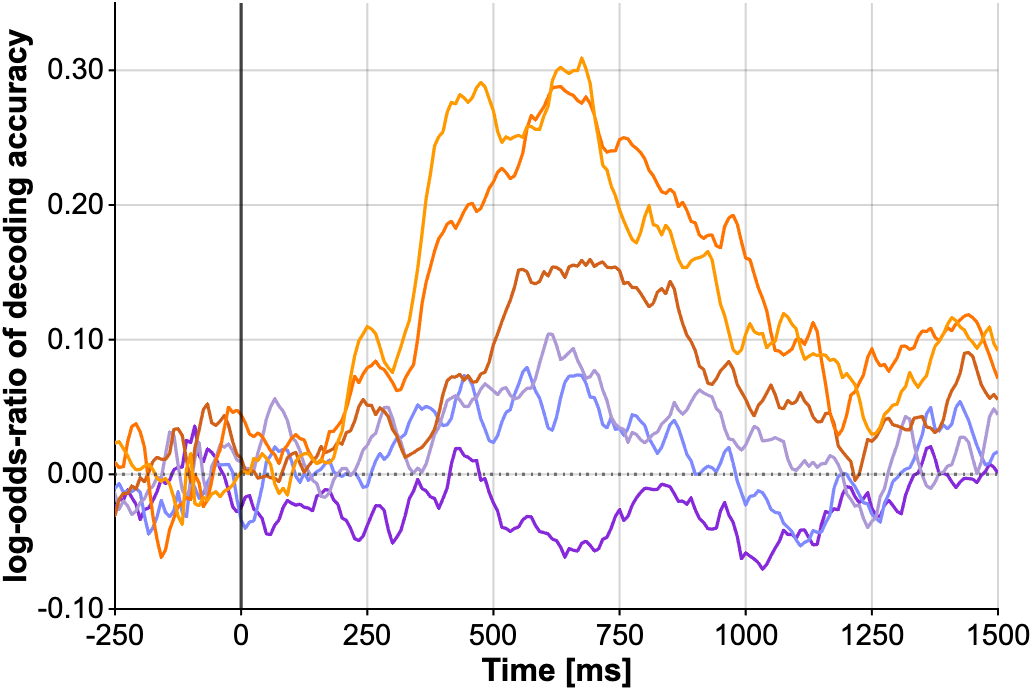
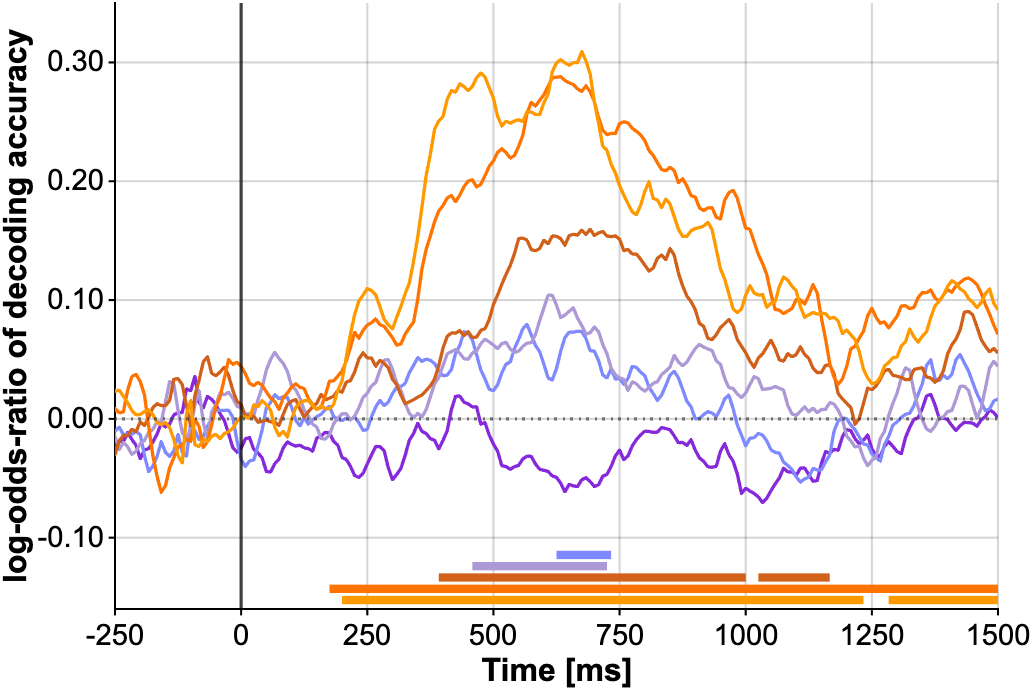
Add decoding-ratio statistics and a Figure 5e significance bar
- Update meg_decoding_accuracies.mat: rename the stats field to acc_statsAcc
  and add acc_statsLOR (log-odds-ratio cluster statistics); all other fields
  are unchanged
- Reference acc_statsAcc in fig5 and the shared decoding-panel helper
- Draw cluster-based significance bars on the Figure 5e log-odds-ratio panel
  using acc_statsLOR
- Document the new stats fields in the README

diff --git a/fig5_decoding_acc.m b/fig5_decoding_acc.m
@@ -79,7 +79,7 @@ for iCond = 1:numel(conditions)
     end
 end
 
-ratio = localBuildRatioTimecourses(tc);
+ratio = localBuildRatioTimecourses(tc, dec, expIdx, timeSec);
 
 %% ------------------------- PLOT -----------------------------------------
 
@@ -125,12 +125,12 @@ function subjByTime = localConditionAccuracy(acc, accDims, dimLevs, timeDim, ref
     end
 end
 
-function ratio = localBuildRatioTimecourses(tc)
+function ratio = localBuildRatioTimecourses(tc, dec, expIdx, timeSec)
     names = ["purple", "orange"];
     cols = struct();
     cols.purple = [0.52 0.16 0.86; 0.50 0.54 1.00; 0.68 0.60 0.84];
     cols.orange = [0.82 0.38 0.10; 1.00 0.45 0.00; 1.00 0.60 0.00];
-    ratio = struct('label', {}, 'y', {}, 'color', {});
+    ratio = struct('label', {}, 'y', {}, 'color', {}, 'sig', {});
     for iRef = 1:numel(names)
         ref = names(iRef);
         hue = tc.(char(ref + "_hue")).subjByTime ./ 100;
@@ -141,20 +141,65 @@ function ratio = localBuildRatioTimecourses(tc)
             ratio(end+1).label = sprintf('%s step %d', ref, iStep); %#ok<AGROW>
             ratio(end).y = y(:, iStep);
             ratio(end).color = cols.(char(ref))(iStep, :);
+            % Significant time points (p < 0.05) of the log-odds-ratio, from the
+            % cluster-based permutation test stored in dec.acc_statsLOR.
+            ratio(end).sig = localSignificantMaskLOR(dec, expIdx, ref, iStep, timeSec);
         end
     end
 end
 
-function mask = localSignificantMask(dec, expIdx, refName, axisName, stepLevel, timeSec, accDims, dimLevs) %#ok<INUSD>
-    % Significant time points (p < 0.05) for one condition, read from the stats
-    % stored in dec.acc_stats. acc_stats is a per-experiment cell of
-    % (quad x hc x step) structs, each with a time-resolved p-value field .prob.
+function mask = localSignificantMaskLOR(dec, expIdx, refName, stepLevel, timeSec)
+    % Significant time points (p < 0.05) for one hue/chroma log-odds-ratio line,
+    % read from dec.acc_statsLOR. acc_statsLOR is a per-experiment cell of
+    % (quad x step) structs, each with a time-resolved p-value field .prob.
     mask = false(numel(timeSec), 1);
-    if ~isfield(dec, 'acc_stats')
+    if ~isfield(dec, 'acc_statsLOR')
         return
     end
 
-    S = dec.acc_stats;
+    S = dec.acc_statsLOR;
+    if iscell(S)
+        if numel(S) < expIdx || isempty(S{expIdx})
+            return
+        end
+        S = S{expIdx};
+    end
+
+    % Drop singleton dimensions so the array is (quad, step).
+    S = squeeze(S);
+
+    quadIdx = localStatsLevelIndex(dec, 'quad', refName);
+    stepIdx = localStatsStepIndex(dec, stepLevel);
+    if isempty(quadIdx) || isempty(stepIdx)
+        return
+    end
+    if quadIdx > size(S, 1) || stepIdx > size(S, 2)
+        return
+    end
+
+    if iscell(S)
+        s = S{quadIdx, stepIdx};
+    else
+        s = S(quadIdx, stepIdx);
+    end
+    if ~isstruct(s) || ~isfield(s, 'prob')
+        return
+    end
+    p = double(s.prob(:));
+    n = min(numel(p), numel(timeSec));
+    mask(1:n) = p(1:n) < 0.05;
+end
+
+function mask = localSignificantMask(dec, expIdx, refName, axisName, stepLevel, timeSec, accDims, dimLevs) %#ok<INUSD>
+    % Significant time points (p < 0.05) for one condition, read from the stats
+    % stored in dec.acc_statsAcc. acc_statsAcc is a per-experiment cell of
+    % (quad x hc x step) structs, each with a time-resolved p-value field .prob.
+    mask = false(numel(timeSec), 1);
+    if ~isfield(dec, 'acc_statsAcc')
+        return
+    end
+
+    S = dec.acc_statsAcc;
     if iscell(S)
         if numel(S) < expIdx || isempty(S{expIdx})
             return
@@ -190,7 +235,7 @@ function mask = localSignificantMask(dec, expIdx, refName, axisName, stepLevel, 
 end
 
 function idx = localStatsLevelIndex(~, fieldName, levelName)
-    % acc_stats has a fixed (quad, hc, step) layout, verified against acc_agg:
+    % acc_statsAcc has a fixed (quad, hc, step) layout, verified against acc_agg:
     %   quad = [purple, orange], hc = [hue, chroma].
     switch lower(string(fieldName))
         case "quad"
@@ -204,7 +249,7 @@ function idx = localStatsLevelIndex(~, fieldName, levelName)
 end
 
 function idx = localStatsStepIndex(~, stepLevel)
-    % Steps are stored in order 1, 2, 3 along the acc_stats step dimension.
+    % Steps are stored in order 1, 2, 3 along the acc_statsAcc step dimension.
     idx = double(stepLevel);
 end
 
@@ -245,17 +290,32 @@ function localPlotRatioPanel(ax, timeMs, ratio, plotTimeMs)
     yline(ax, 0, ':', 'Color', [0.25 0.25 0.25], 'LineWidth', 0.8);
     xline(ax, 0, '-', 'Color', 'k', 'LineWidth', 0.8);
     xlim(ax, plotTimeMs);
-    ylim(ax, [-0.10 0.35]);
+    % The y-axis is extended below -0.10 to make room for a strip of
+    % significance bars; the labelled tick range is unchanged.
+    ylim(ax, [-0.16 0.35]);
     xticks(ax, -250:250:1500);
     ratioTicks = -0.10:0.10:0.30;
     yticks(ax, ratioTicks);
     yticklabels(ax, compose('%.2f', ratioTicks));
     xlabel(ax, 'Time [ms]', 'FontWeight', 'bold');
     ylabel(ax, 'log-odds-ratio of decoding accuracy', 'FontWeight', 'bold');
+
+    % Significance bars (cluster-based permutation test on the log-odds-ratio,
+    % dec.acc_statsLOR) drawn in a strip below the data, one per line.
+    sigBase = -0.105;
+    sigSpacing = 0.0095;
+    for iLine = 1:numel(ratio)
+        localDrawSigBars(ax, timeMs, ratio(iLine).sig, sigBase - sigSpacing * (iLine - 1), ...
+            ratio(iLine).color, plotTimeMs, 2);
+    end
+
     localStyleTimeAxis(ax);
 end
 
-function localDrawSigBars(ax, timeMs, mask, y, col, plotTimeMs)
+function localDrawSigBars(ax, timeMs, mask, y, col, plotTimeMs, lineWidth)
+    if nargin < 7 || isempty(lineWidth)
+        lineWidth = 3;
+    end
     mask = mask(:)' & timeMs >= min(plotTimeMs) & timeMs <= max(plotTimeMs);
     if ~any(mask)
         return
@@ -265,7 +325,7 @@ function localDrawSigBars(ax, timeMs, mask, y, col, plotTimeMs)
     stops = find(d == -1) - 1;
     for iRun = 1:numel(starts)
         plot(ax, [timeMs(starts(iRun)) timeMs(stops(iRun))], [y y], '-', ...
-        'Color', col, 'LineWidth', 3, 'Clipping', 'off');
+        'Color', col, 'LineWidth', lineWidth, 'Clipping', 'off');
     end
 end
 

diff --git a/utils/local_decoding_acc_panels.m b/utils/local_decoding_acc_panels.m
@@ -92,14 +92,14 @@ end
 
 function mask = localSignificantMask(dec, expIdx, refName, axisName, stepLevel, timeSec, accDims, dimLevs) %#ok<INUSD>
     % Significant time points (p < 0.05) for one condition, read from the stats
-    % stored in dec.acc_stats. acc_stats is a per-experiment cell of
+    % stored in dec.acc_statsAcc. acc_statsAcc is a per-experiment cell of
     % (quad x hc x step) structs, each with a time-resolved p-value field .prob.
     mask = false(numel(timeSec), 1);
-    if ~isfield(dec, 'acc_stats')
+    if ~isfield(dec, 'acc_statsAcc')
         return
     end
 
-    S = dec.acc_stats;
+    S = dec.acc_statsAcc;
     if iscell(S)
         if numel(S) < expIdx || isempty(S{expIdx})
             return
@@ -135,7 +135,7 @@ function mask = localSignificantMask(dec, expIdx, refName, axisName, stepLevel, 
 end
 
 function idx = localStatsLevelIndex(~, fieldName, levelName)
-    % acc_stats has a fixed (quad, hc, step) layout, verified against acc_agg:
+    % acc_statsAcc has a fixed (quad, hc, step) layout, verified against acc_agg:
     %   quad = [purple, orange], hc = [hue, chroma].
     switch lower(string(fieldName))
         case "quad"
@@ -149,7 +149,7 @@ function idx = localStatsLevelIndex(~, fieldName, levelName)
 end
 
 function idx = localStatsStepIndex(~, stepLevel)
-    % Steps are stored in order 1, 2, 3 along the acc_stats step dimension.
+    % Steps are stored in order 1, 2, 3 along the acc_statsAcc step dimension.
     idx = double(stepLevel);
 end
 

diff --git a/README.md b/README.md
@@ -163,7 +163,8 @@ above.
 | --- | --- | --- |
 | `acc_agg` | 1×3 cell | Per-participant decoding accuracy. Each cell is `time × quad × hc × direc × step × pt` = `241 × 2 × 2 × 2 × 3 × N` |
 | `acc_gav` | 1×3 cell | Grand-average over participants: `time × quad × hc × direc × step` = `241 × 2 × 2 × 2 × 3` |
-| `acc_stats` | 1×3 cell | Cluster-based statistics per condition |
+| `acc_statsAcc` | 1×3 cell | Cluster-based permutation statistics on decoding accuracy, per `(quad × hc × step)` condition (each a struct with a time-resolved p-value field `prob`) |
+| `acc_statsLOR` | 1×3 cell | Cluster-based permutation statistics on the hue/chroma log-odds-ratio, per `(quad × step)` condition (same struct layout) |
 | `pts`, `ptInds` | 1×3 cell | Participant IDs and indices |
 | `accTime` | 1×241 | Time axis in seconds (−0.5 to 1.5 s relative to stimulus onset) |
 | `accDims` | 1×6 string | Dimension names: `["time","quad","hc","direc","step","pt"]` |